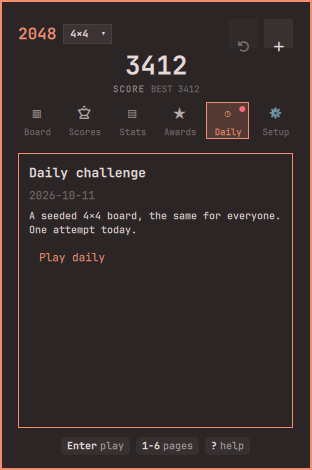
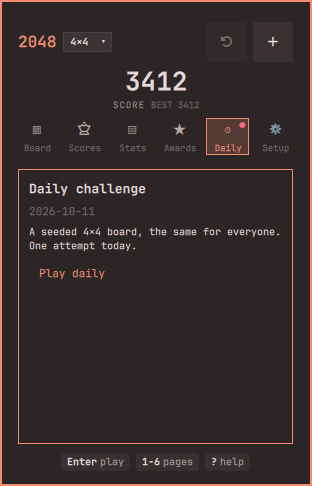
fix: make the header action buttons square with centred glyphs

diff --git a/Panel.qml b/Panel.qml
@@ -1080,7 +1080,7 @@ Panel {
             Item {
               id: headerTopRow
               width: parent.width
-              height: Style.space(26)
+              height: Style.space(44)
 
               Row {
                 id: brandRow
@@ -1164,17 +1164,17 @@ Panel {
 
                 Rectangle {
                   id: undoButton
-                  width: Style.space(32)
-                  height: Style.space(32)
+                  width: Style.space(44)
+                  height: Style.space(44)
                   radius: Style.cornerRadius > 0 ? Style.space(6) : 0
                   opacity: root.canUndo ? 1 : 0.4
                   color: undoMouse.containsMouse && root.canUndo
                     ? Util.alpha(Color.foreground, 0.14)
                     : Util.alpha(Color.foreground, 0.07)
 
-                  // Both header icons use the Nerd Font and are centred by the
-                  // glyph's ink box (Nerd icons sit flush-left in their mono
-                  // advance, so anchors.centerIn alone would bias them right).
+                  // Both header icons use the Nerd Font, centred by the glyph's
+                  // tight ink box horizontally and on the line box vertically
+                  // (Nerd glyph ink is flush-left in its mono advance).
                   TextMetrics {
                     id: undoTm
                     font.family: Style.font.family
@@ -1182,8 +1182,8 @@ Panel {
                     text: "\uF0E2"
                   }
                   Text {
-                    x: Math.round((parent.width - undoTm.boundingRect.width) / 2 - undoTm.boundingRect.x)
-                    y: Math.round((parent.height - undoTm.boundingRect.height) / 2 - undoTm.boundingRect.y)
+                    anchors.verticalCenter: parent.verticalCenter
+                    x: Math.round((parent.width - undoTm.tightBoundingRect.width) / 2 - undoTm.tightBoundingRect.x)
                     text: "\uF0E2"
                     color: Color.foreground
                     font.family: Style.font.family
@@ -1226,8 +1226,8 @@ Panel {
 
                 Rectangle {
                   id: newGameButton
-                  width: Style.space(32)
-                  height: Style.space(32)
+                  width: Style.space(44)
+                  height: Style.space(44)
                   radius: Style.cornerRadius > 0 ? Style.space(6) : 0
                   color: newGameMouse.containsMouse
                     ? Util.alpha(Color.foreground, 0.14)
@@ -1240,8 +1240,8 @@ Panel {
                     text: "\uF067"
                   }
                   Text {
-                    x: Math.round((parent.width - plusTm.boundingRect.width) / 2 - plusTm.boundingRect.x)
-                    y: Math.round((parent.height - plusTm.boundingRect.height) / 2 - plusTm.boundingRect.y)
+                    anchors.verticalCenter: parent.verticalCenter
+                    x: Math.round((parent.width - plusTm.tightBoundingRect.width) / 2 - plusTm.tightBoundingRect.x)
                     text: "\uF067"
                     color: Color.foreground
                     font.family: Style.font.family
